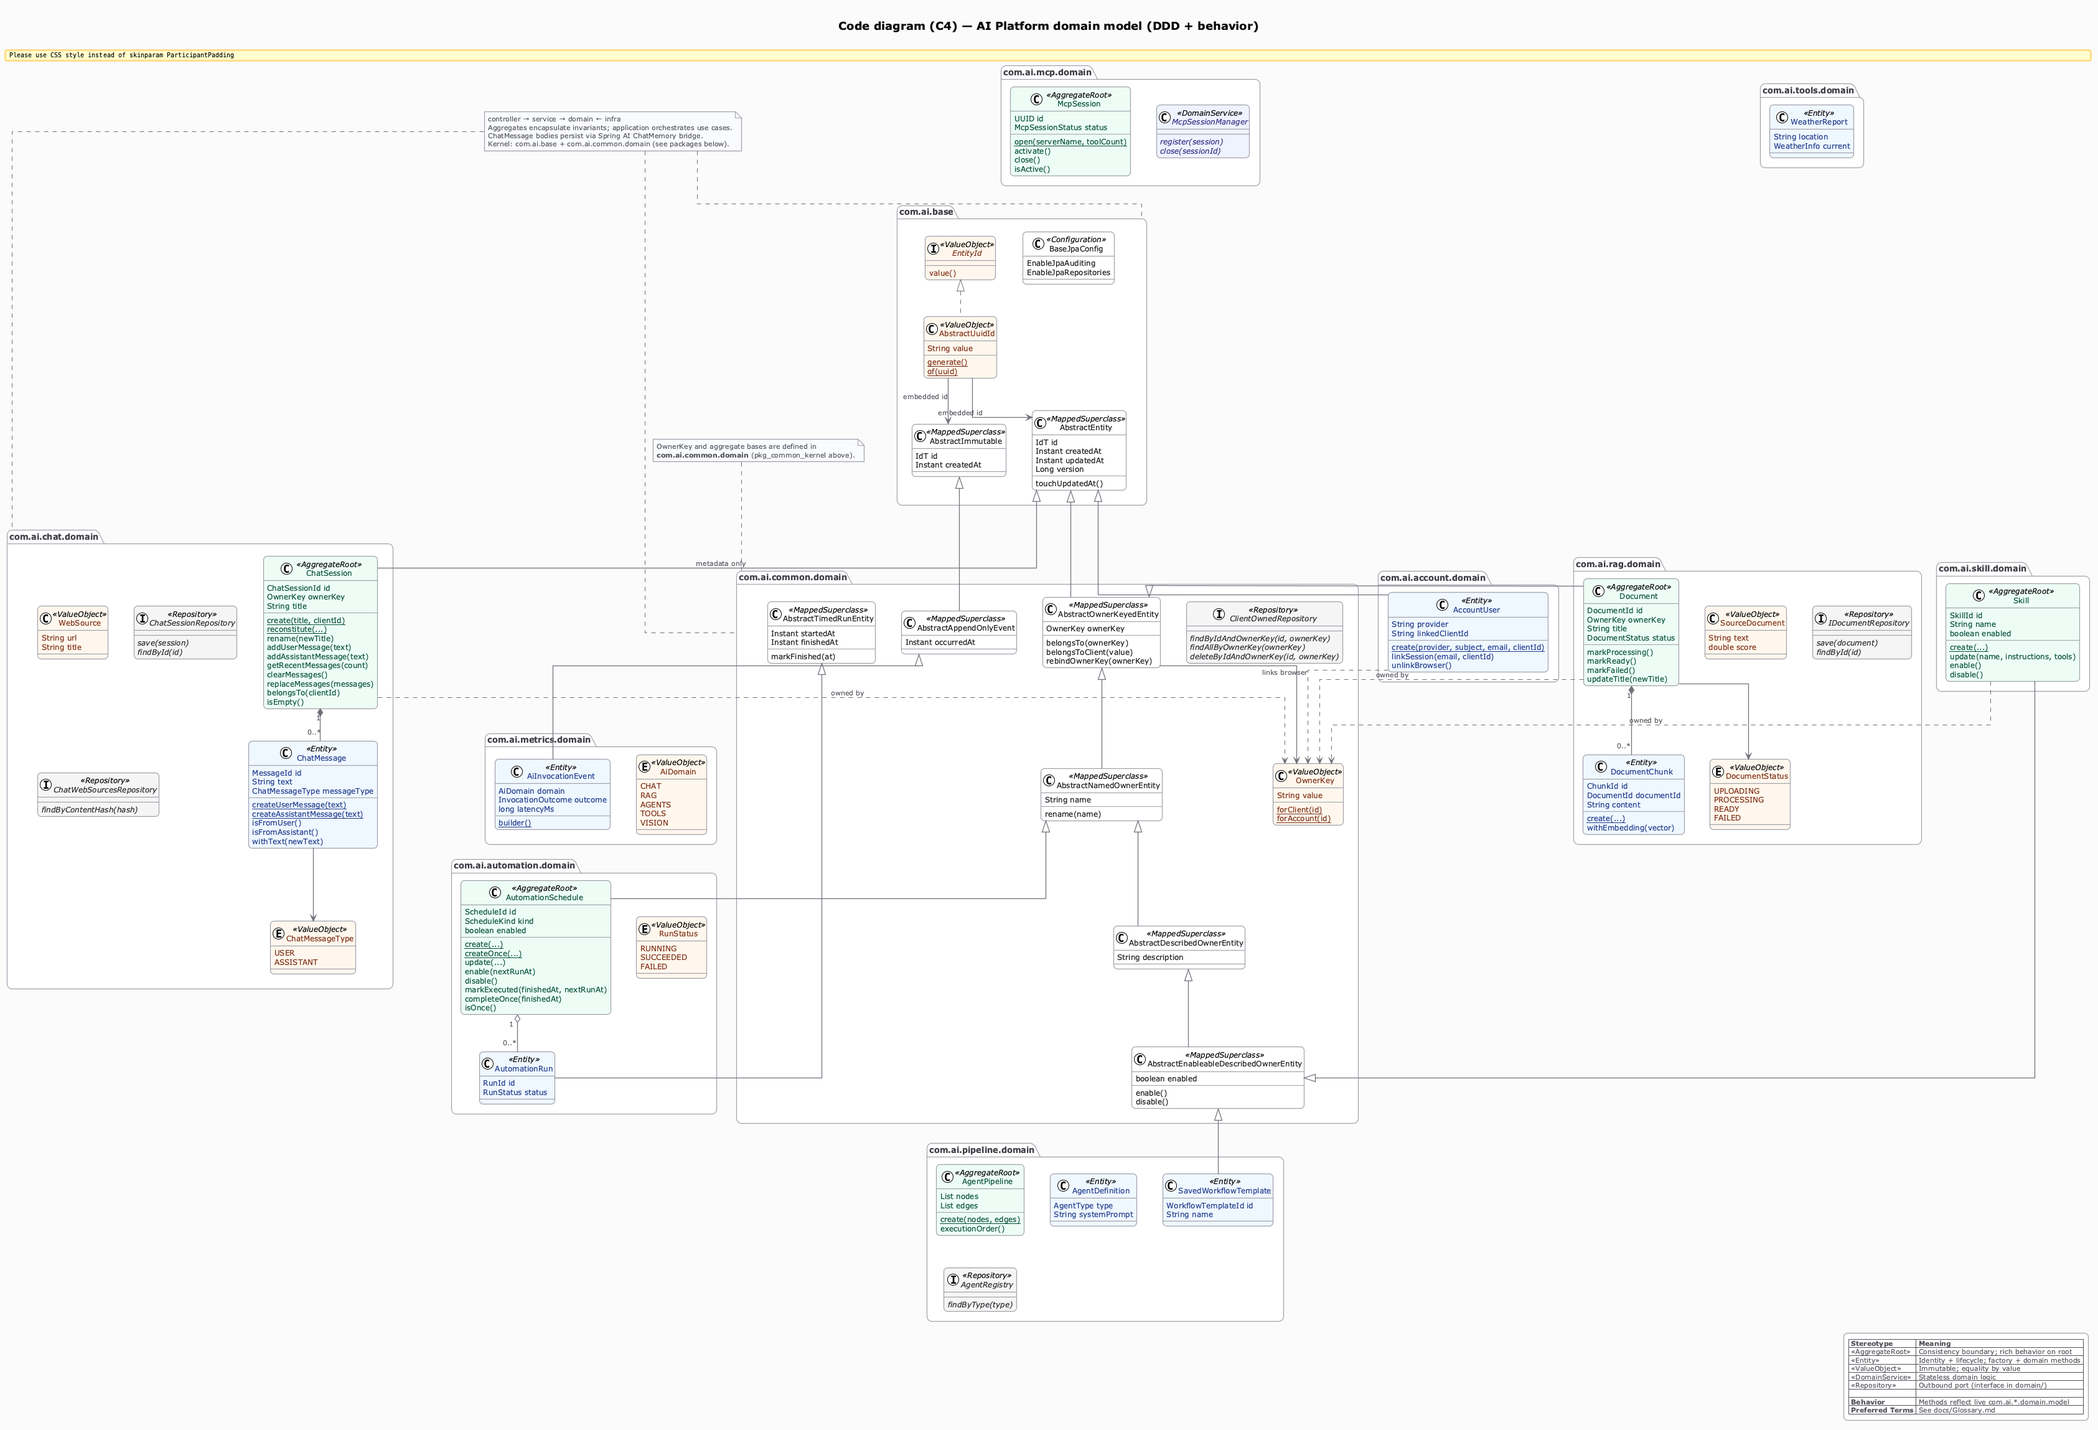
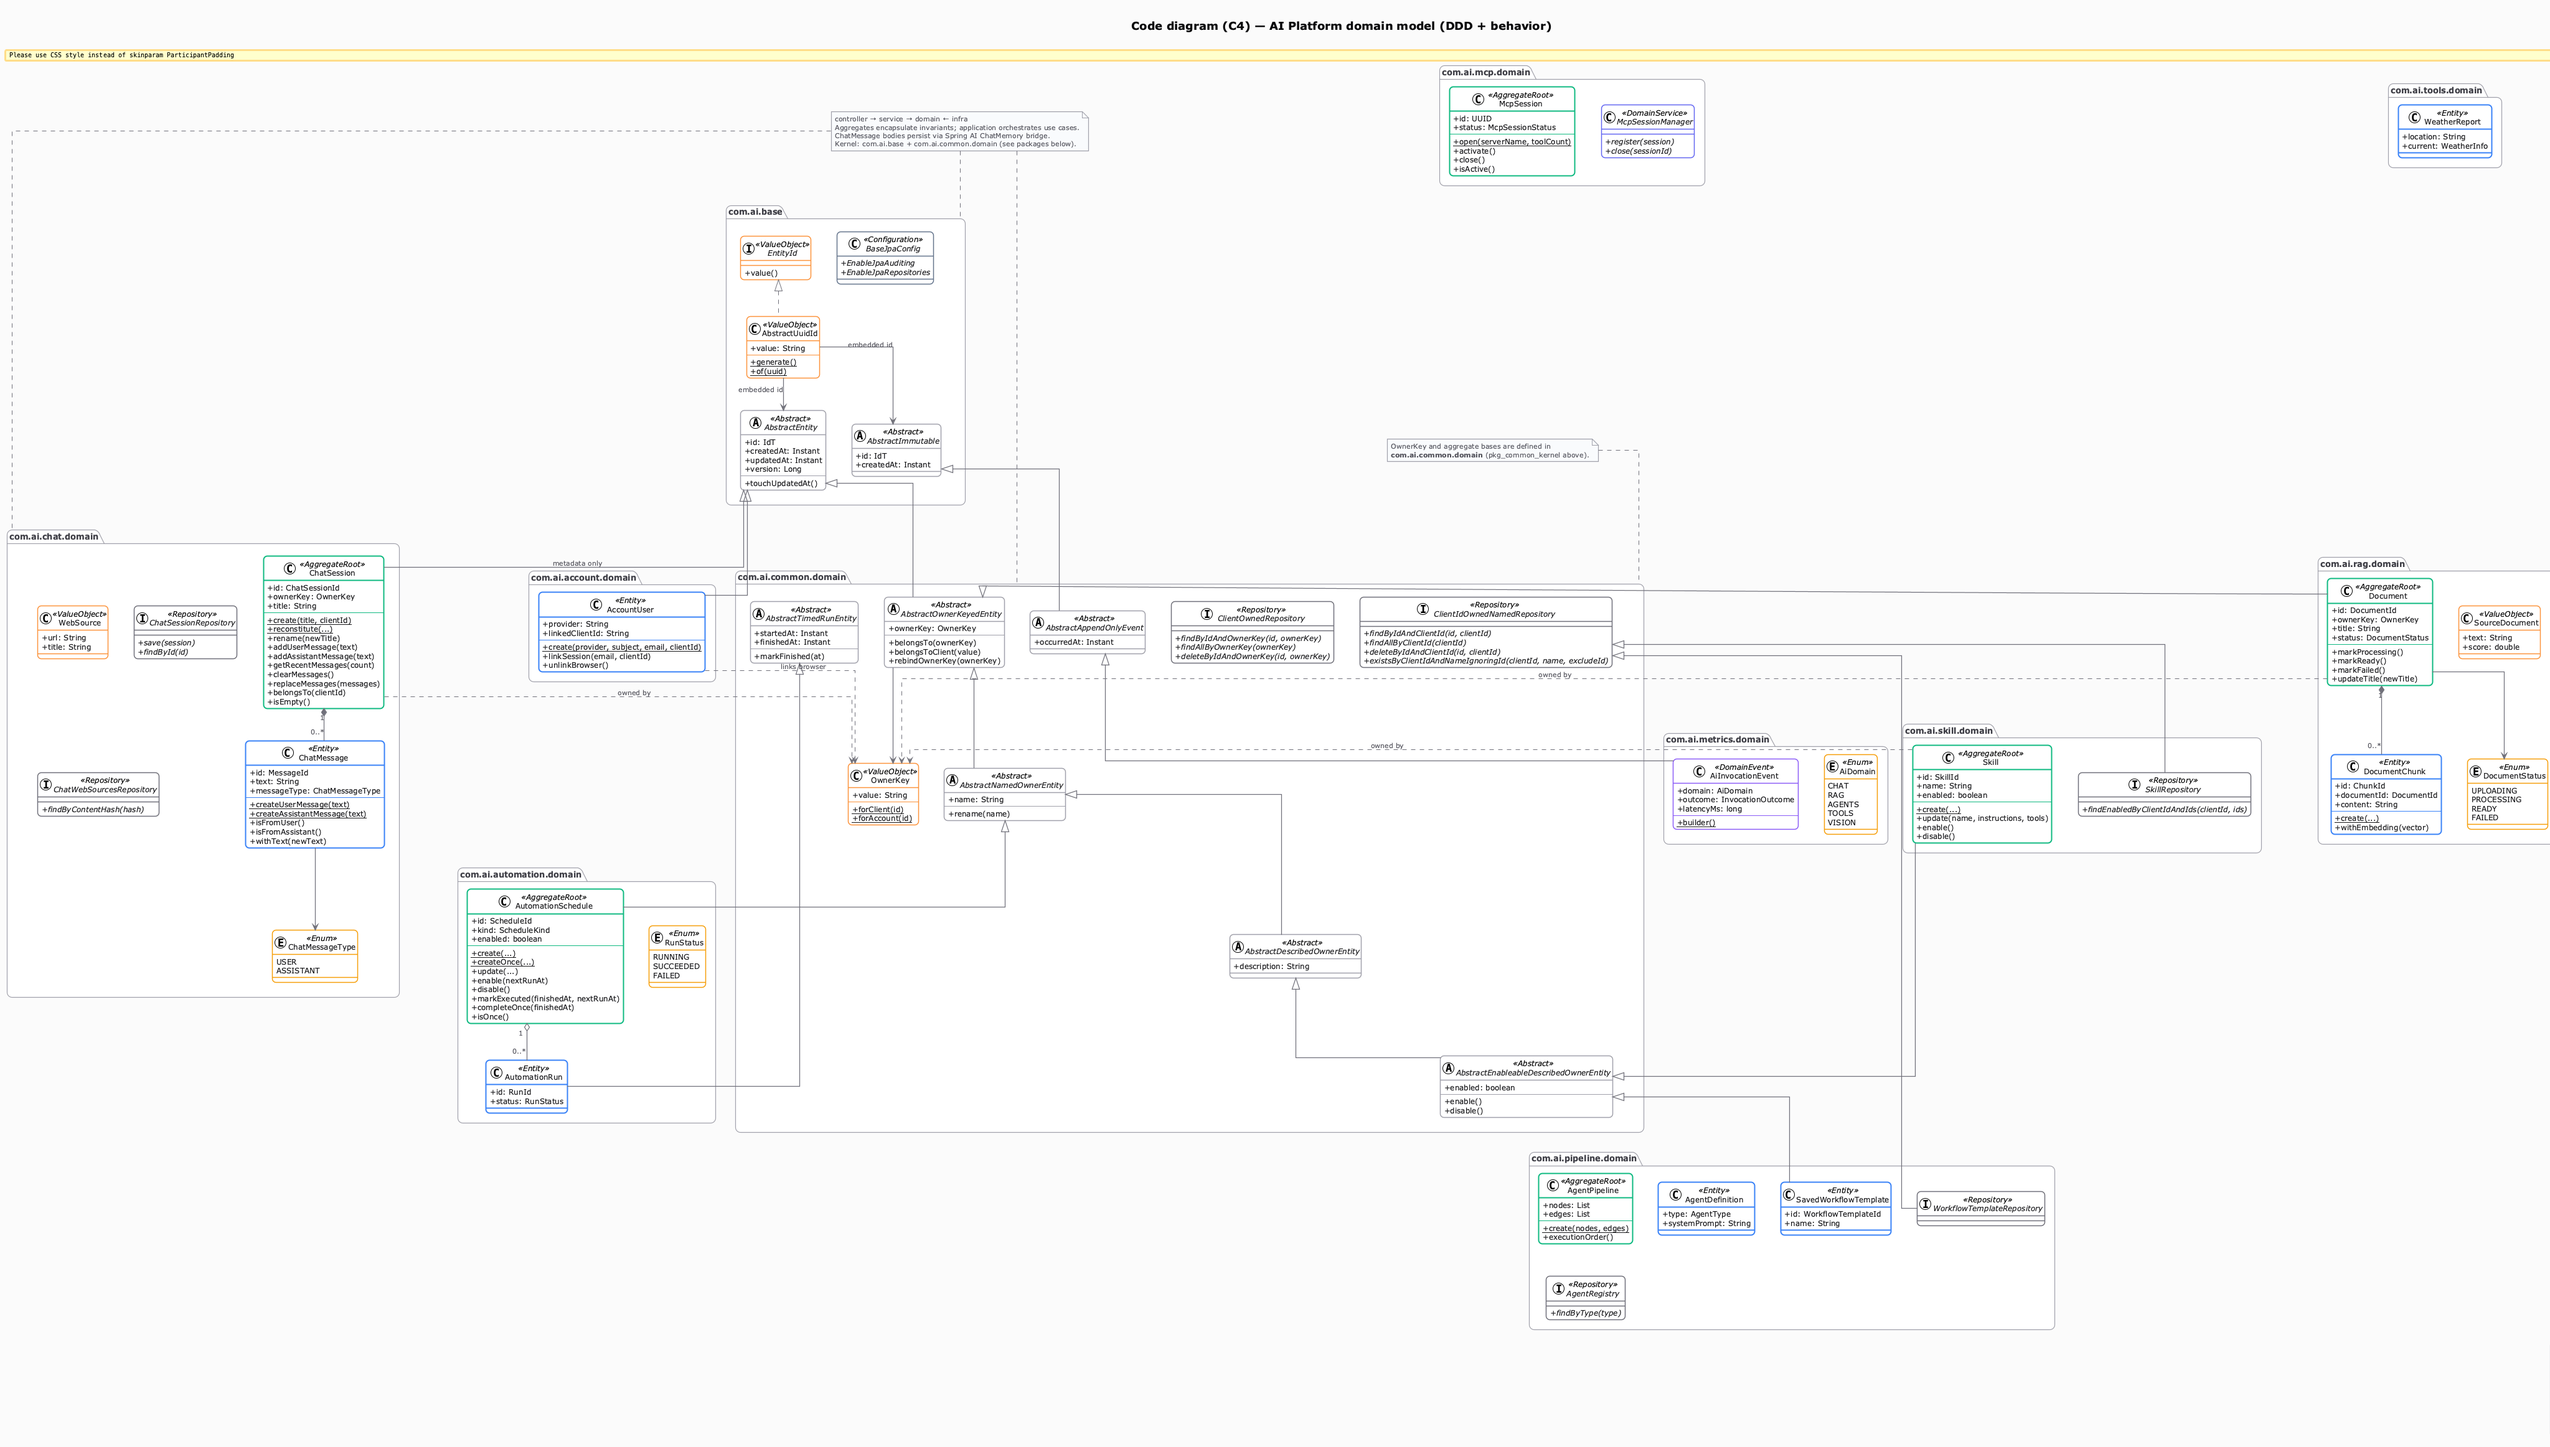
Align Explore AI domain model diagram with code
As-built classes need UML visibility, enum stereotypes,
and c4-model token colors before plan deltas land.

References:

- https://c4model.com/
- https://github.com/plantuml-stdlib/C4-PlantUML

diff --git a/explore-ai/docs/developer/c4-model/README.md b/explore-ai/docs/developer/c4-model/README.md
@@ -9,7 +9,7 @@ Source of truth: `.puml`。官方 C4: [c4model.com](https://c4model.com/)。库:
 | Track | Files | Style |
 | ----- | ----- | ----- |
 | **Structural C4** | C1–C3, Deployment | Official **`C4_blue_new`** theme（线框；勿与 zinc 混用） |
-| **Domain + Dynamics** | Code domain model, `C4-Dynamic-*` | Shared zinc look via [`style-zinc.puml`](style-zinc.puml) |
+| **Domain + Dynamics** | Code domain model, `C4-Dynamic-*` | [`style-zinc.puml`](style-zinc.puml)（见 c4-model 标准 token） |
 
 Do not mix `C4_blue_new` into domain/dynamic diagrams（也不要把 `style-zinc.puml` 用于 structural C4）。
 
@@ -22,7 +22,7 @@ Do not mix `C4_blue_new` into domain/dynamic diagrams（也不要把 `style-zinc
 | `C3-Component.puml` | C3 | **单图**：前后端组件 + Clean Architecture 四层 |
 | `C4-Code-Domain-Model.puml` | **Code** | 领域模型（Entity 行为 + VO / Repository；对齐 `com.ai.*.domain`） |
 | `C4-Deployment.puml` | Deployment | **单图**：本地 dev + 生产（Vercel + Render） |
-| `style-zinc.puml` | Shared | Code + Dynamics 共用 zinc 样式 |
+| `style-zinc.puml` | Shared | Code + Dynamic 共用样式（c4-model.md token） |
 | `C4-Dynamic-Document-Upload.puml` | Dynamic | 文档上传 ETL |
 | `C4-Dynamic-Rag-Ask.puml` | Dynamic | RAG SSE 问答 |
 | `C4-Dynamic-Chat-Tools.puml` | Dynamic | Chat 工具 SSE + A2UI 图表 |
@@ -33,7 +33,7 @@ Do not mix `C4_blue_new` into domain/dynamic diagrams（也不要把 `style-zinc
 ### When to open which track
 
 - 边界 / 部署拓扑 → Structural C4（`C4_blue_new`）
-- 统一语言 / 聚合行为与 VO → Code domain model
+- 统一语言 / 聚合行为与 VO → Code domain model（as-built）
 - 运行时主链路（上传、RAG、Chat 工具）→ `C4-Dynamic-*`
 
 ---
@@ -64,7 +64,7 @@ Do not mix `C4_blue_new` into domain/dynamic diagrams（也不要把 `style-zinc
 
 ![C4-Code-Domain-Model](png/C4-Code-Domain-Model.png)
 
-按 `com.ai.*.domain` 分包；Aggregate / Entity 展示领域行为（factory、状态转换、聚合内操作）。术语见 [Glossary](../../Glossary.md) Appendix A。
+按 `com.ai.*.domain` 分包。类型配色遵循 monorepo **c4-model.md** 标准 token：**AggregateRoot** 绿 · **Entity** 蓝 · **ValueObject** 橙 · **Enum** 琥珀（白底 + 彩色边框）。术语见 [Glossary](../../Glossary.md) Appendix A。
 
 ---
 
